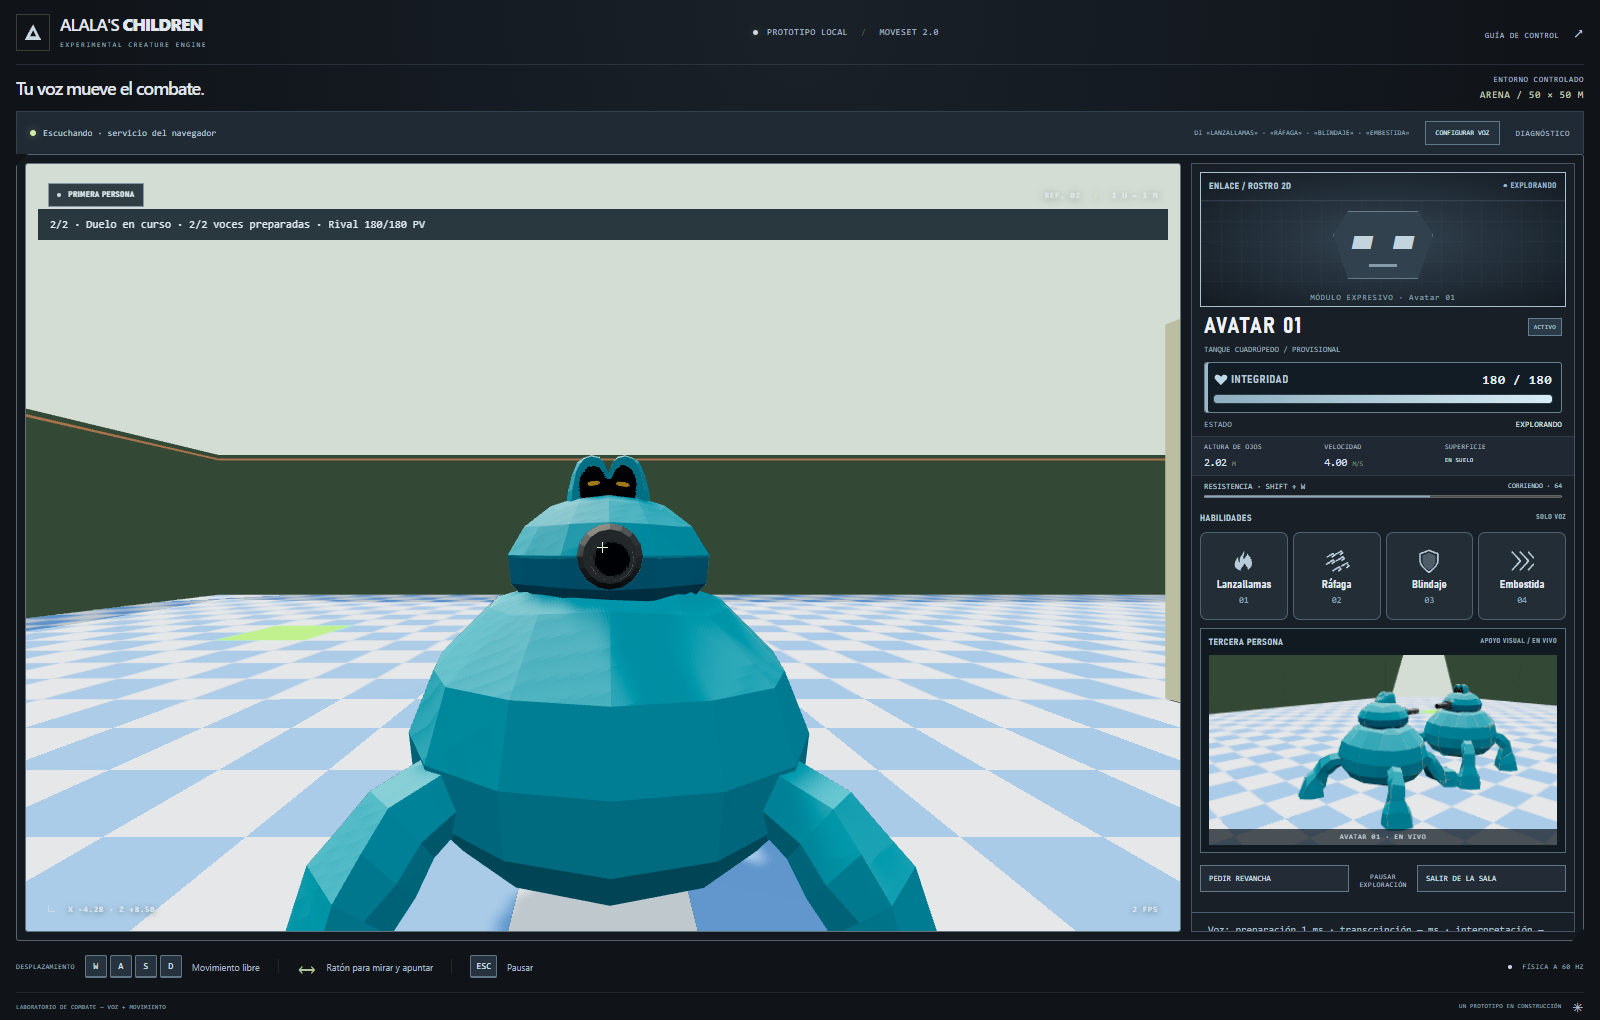
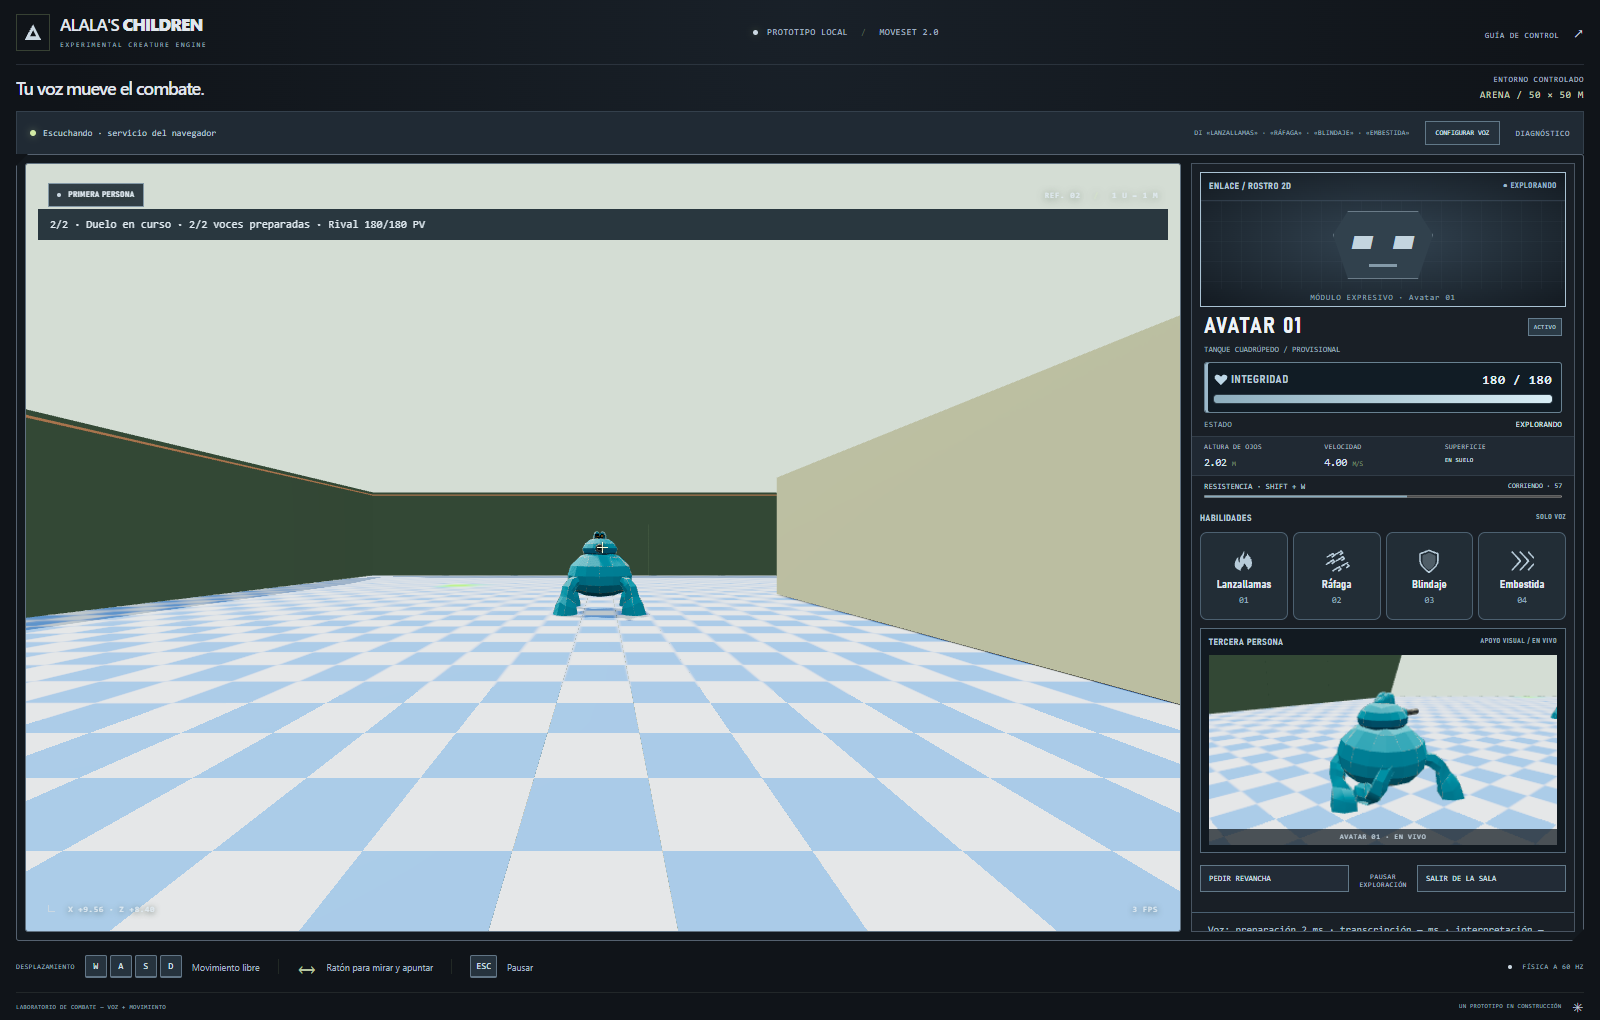
Documenta verificación online de estampida y ensayo en curva despejada

Changed region(s): [[0.0, 0.3039, 1.0, 0.9118], [0.0625, 0.8814, 0.0938, 0.9118], [0.0312, 0.3951, 0.0625, 0.4255]]

diff --git a/tests/pvp.e2e.ts b/tests/pvp.e2e.ts
@@ -71,12 +71,12 @@ test('sprint PvP: resistencia propia, velocidad autoritativa y carrera del GLB',
   await b.goto(await a.locator('#invite-link').inputValue());await expect(a.locator('#room-message')).toContainText('2/2');
   for(const p of [a,b])await p.getByRole('button',{name:'CONFIRMAR AVATAR 01'}).click();
   await enable(a);await enable(b);await expect(b.locator('#pvp-state')).toHaveAttribute('data-status','playing');
-  await b.keyboard.down('Shift');await b.keyboard.down('w');
+  await b.keyboard.down('Shift');await b.keyboard.down('w');await b.keyboard.down('d');
   await expect.poll(async()=>parseFloat(await b.locator('#speed').innerText())).toBeGreaterThan(3.5);
   await expect.poll(async()=>JSON.parse(await b.locator('#avatar-live').getAttribute('data-weights')??'{}').run).toBeGreaterThan(.6);
   expect(await b.locator('#stamina').evaluate((e:HTMLProgressElement)=>e.value)).toBeLessThan(95);
   expect(await a.locator('#stamina').evaluate((e:HTMLProgressElement)=>e.value)).toBe(100);
   await b.screenshot({path:'docs/screenshots/stampede-pvp.png',fullPage:true});
-  await b.keyboard.up('Shift');await b.keyboard.up('w');await expect.poll(async()=>parseFloat(await b.locator('#speed').innerText())).toBeLessThan(.1);
+  await b.keyboard.up('Shift');await b.keyboard.up('w');await b.keyboard.up('d');await expect.poll(async()=>parseFloat(await b.locator('#speed').innerText())).toBeLessThan(.1);
  }finally{await one.close();await two.close();}
 });

diff --git a/docs/SPRINT.md b/docs/SPRINT.md
@@ -19,3 +19,5 @@ Comparación de persecución: 4 m/s supera 2.5 y 3.5 m/s en recta a velocidad so
 Recomendación: validar con jugadores el giro A/D mientras apuntan independientemente, y revisar visualmente cambios diagonales rápidos. Los parámetros oficiales se mantienen. Futuro: una pose de frenado más marcada y apoyo sobre superficies con distinta altura; no se añadieron capas de audio ni vibraciones fuertes.
 
 Solo se corre hacia adelante: Shift + S no activa carrera; durante la inercia, S frena hasta recuperar la velocidad de marcha antes de permitir retroceso. La animación Run_Stampede requiere el estado de carrera/desaceleración, para no confundirse con empujones externos. Comprobaciones: 182 pruebas unitarias aprobadas; 12 escenarios generales aprobados, locomoción v3 y combate PvP con revancha aprobados al repetir en servidor actualizado, y escenario de sprint con dos clientes aprobado tras corregir actualización independiente de la barra de resistencia. El primer intento PvP reutilizó un servidor anterior; se habilitó un puerto de pruebas configurable para evitarlo. Falta valoración artística del jugador y medición con dos micrófonos reales.
+
+Verificación pública: el 2 de noviembre se probó el commit 1cc4528 en https://alalas-project.onrender.com con dos navegadores independientes. La prueba de sprint en curva despejada pasó (velocidad, mezcla Run_Stampede, resistencia propia y frenado). Se evitó la trayectoria frontal contra el rival, que interrumpía por colisión el ensayo anterior. La valoración artística y de sensación con jugadores sigue pendiente.
